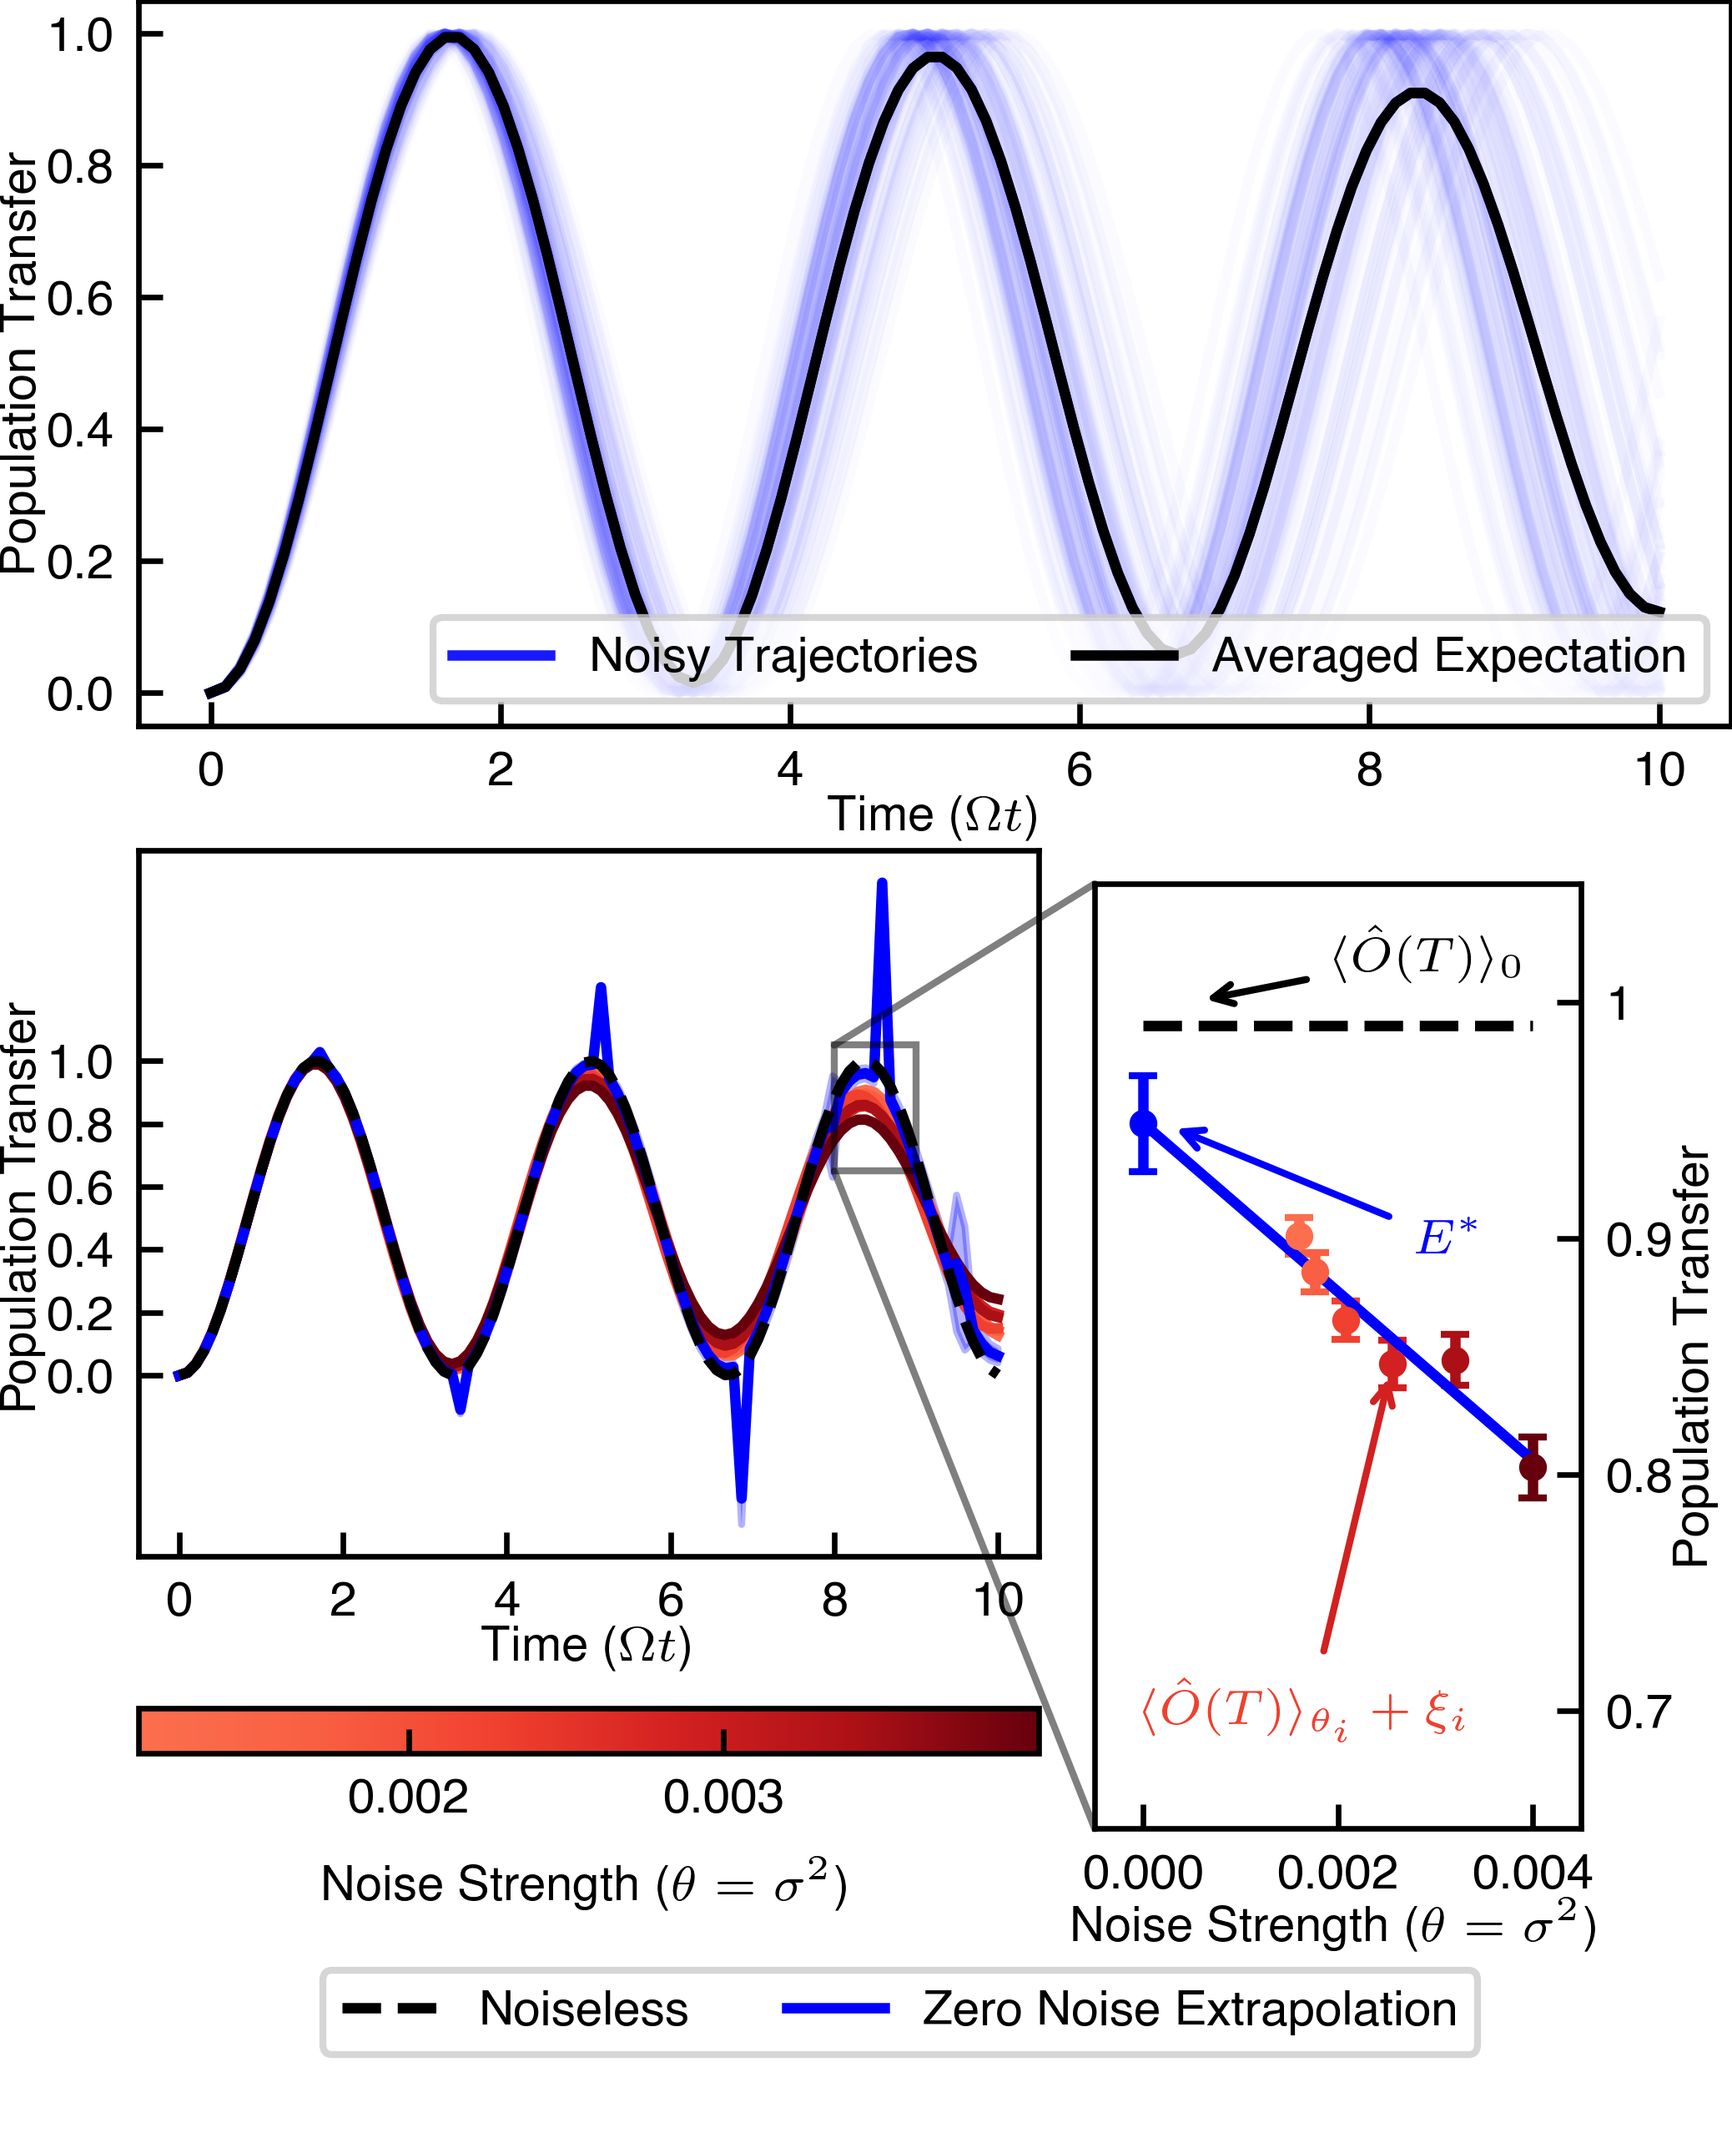
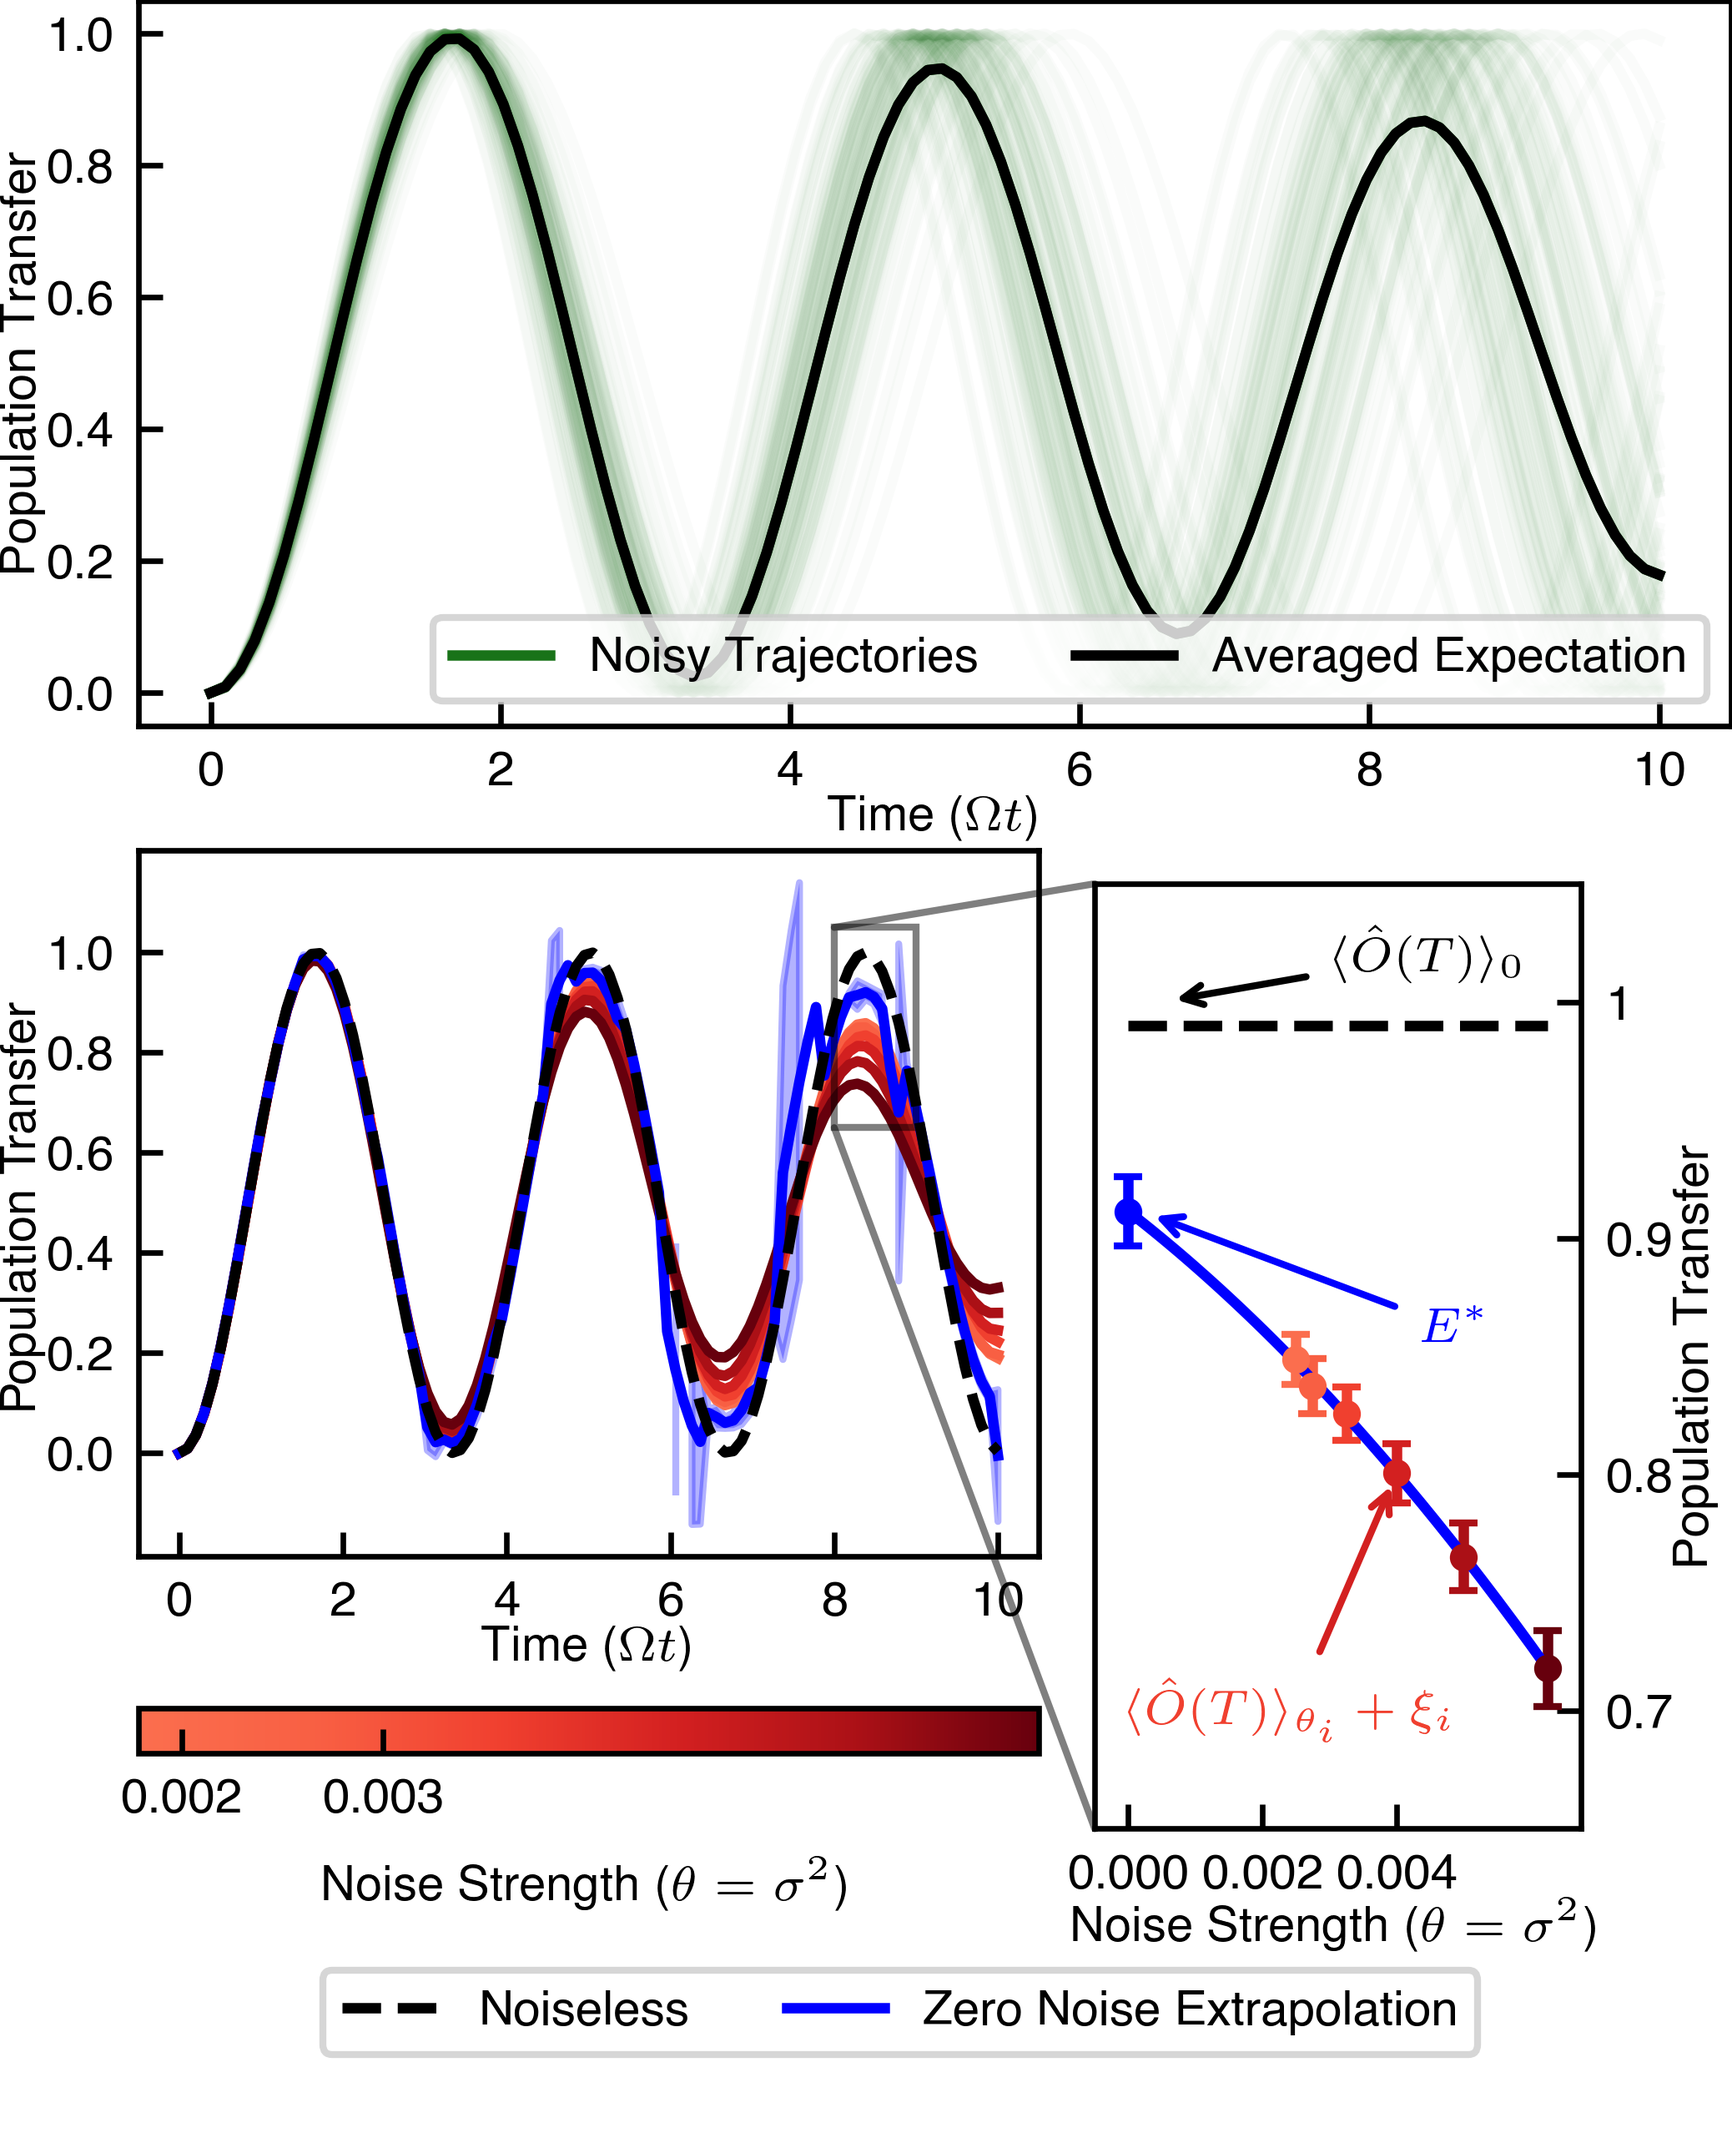
Updated fitting_functions to make use of the pcov sigmas for the constant term in the extrapolation. Updating color of trajectories in Figure 1. Added new loocv algorithm for computing order and errors. Updated Figure 1 and 2.

diff --git a/Figures/figure_1_v4a.py b/Figures/figure_1_v4a.py
@@ -99,7 +99,7 @@ theta_alpha = -42409
 Omega_test = 3750000
 max_time = 10
 times = np.linspace(0, max_time*micro, time_points)
-n_bar = 0.04
+n_bar = 0.08
 delta_thermal = np.array([sample_normal(n_bar) for i in range(delta_samples)])
 delta_thermal_dense = np.array([sample_normal(n_bar) for i in range(dense_samples)])
 
@@ -203,9 +203,10 @@ ax_bi = fig_a.add_subplot(gs[3:7,0:4])
 """ZNE Section/ Plotting"""
 
 #### BASE PLOTTING TIME DOMAIN
+trajectories_color = 'darkgreen'
 for i in range(0,P_thermal_dense.shape[0], delta_samples//100):
-    ax_a.plot(times_dense_plotting, P_thermal_dense[i,:], 'b', alpha=0.02, zorder=-1) 
-ax_a.plot(times_dense_plotting, P_avg_thermal_dense, 'b', alpha=0.9, zorder=-1, label='Noisy Trajectories')
+    ax_a.plot(times_dense_plotting, P_thermal_dense[i,:], trajectories_color, alpha=0.02, zorder=-1) 
+ax_a.plot(times_dense_plotting, P_avg_thermal_dense, trajectories_color, alpha=0.9, zorder=-1, label='Noisy Trajectories')
 ax_a.plot(times_dense_plotting, P_avg_thermal_dense, c='k', label='Averaged Expectation')
 
 
@@ -246,6 +247,11 @@ colorbar = plt.cm.ScalarMappable(cmap=cmap)
 
 # Add color bar to ax_bii
 test_labels = np.asarray([0.001,  0.002, 0.003])#np.power(np.array([0.04, 0.05, 0.06, 0.07]),2)
+#Whole number multiples of 0.001 between n_bar**2 and (n_bar)**2*ZNE_points[-1]
+minimum_label = (n_bar**2//0.001)
+maximum_label = ((n_bar*ZNE_points[-1])**2//0.001)
+test_labels = np.arange(minimum_label, maximum_label+1, 1)*0.001 #include endpoints:
+
 #labels = np.array(['{:.4f}'.format(test_labels[i-1]) for i in range(1,len(ZNE_points))])
 
 normalized_ticks = normalized_ZNE_points_for_color[1:]

diff --git a/util/fitting_functions_ZNE.py b/util/fitting_functions_ZNE.py
@@ -305,7 +305,7 @@ def converge_ZNE_loocv(x, y, y_error = None, remove_first=True, debug=False, ret
         J = np.array([0**i for i in range(min_residual+1 - remove_first)])
         #print(J)
         #print(cov)
-        sigma_0 = np.sqrt(J @ cov @ J.T)
+        sigma_0 = np.sqrt(cov[0,0])#np.sqrt(J @ cov @ J.T)
         print(J)
         print(cov)
         estimate = function(0)
@@ -314,9 +314,9 @@ def converge_ZNE_loocv(x, y, y_error = None, remove_first=True, debug=False, ret
         print(jackknife_residual)
         print(sigma_0)
         if return_order:
-            return function, error, min_residual
+            return function, sigma_0, min_residual
         else:
-            return function, error
+            return function, sigma_0
     else:
         function = order_poly_ZNE(x, y, order=min_residual, remove_first=remove_first, weights=y_error, debug=debug)
         if return_order:
